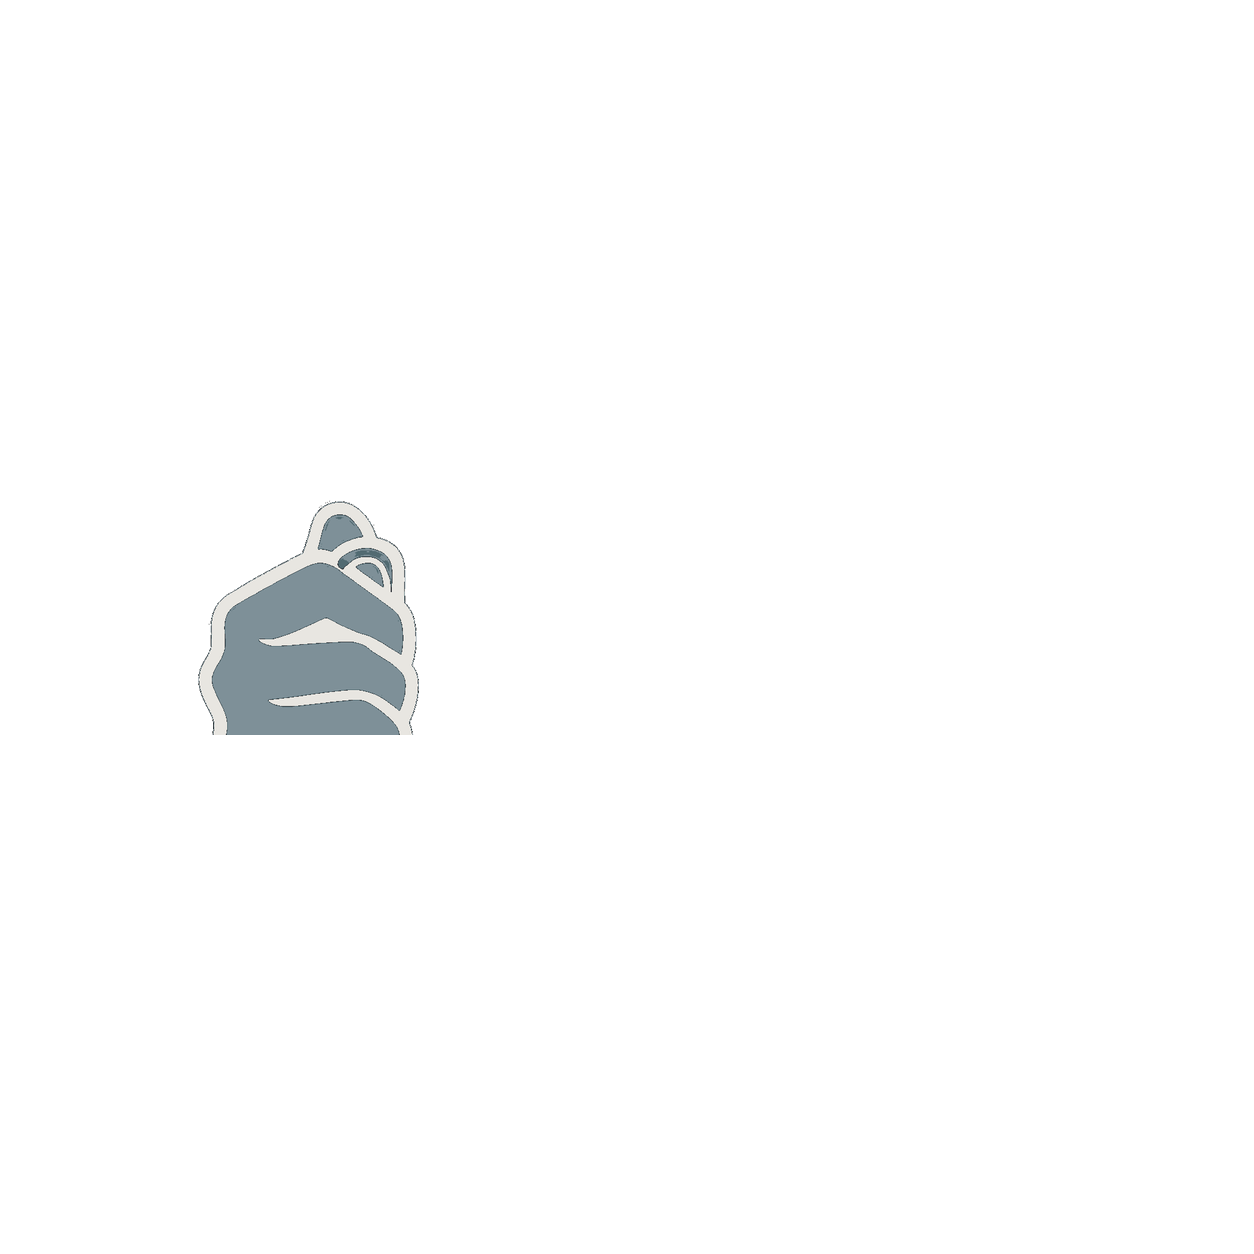
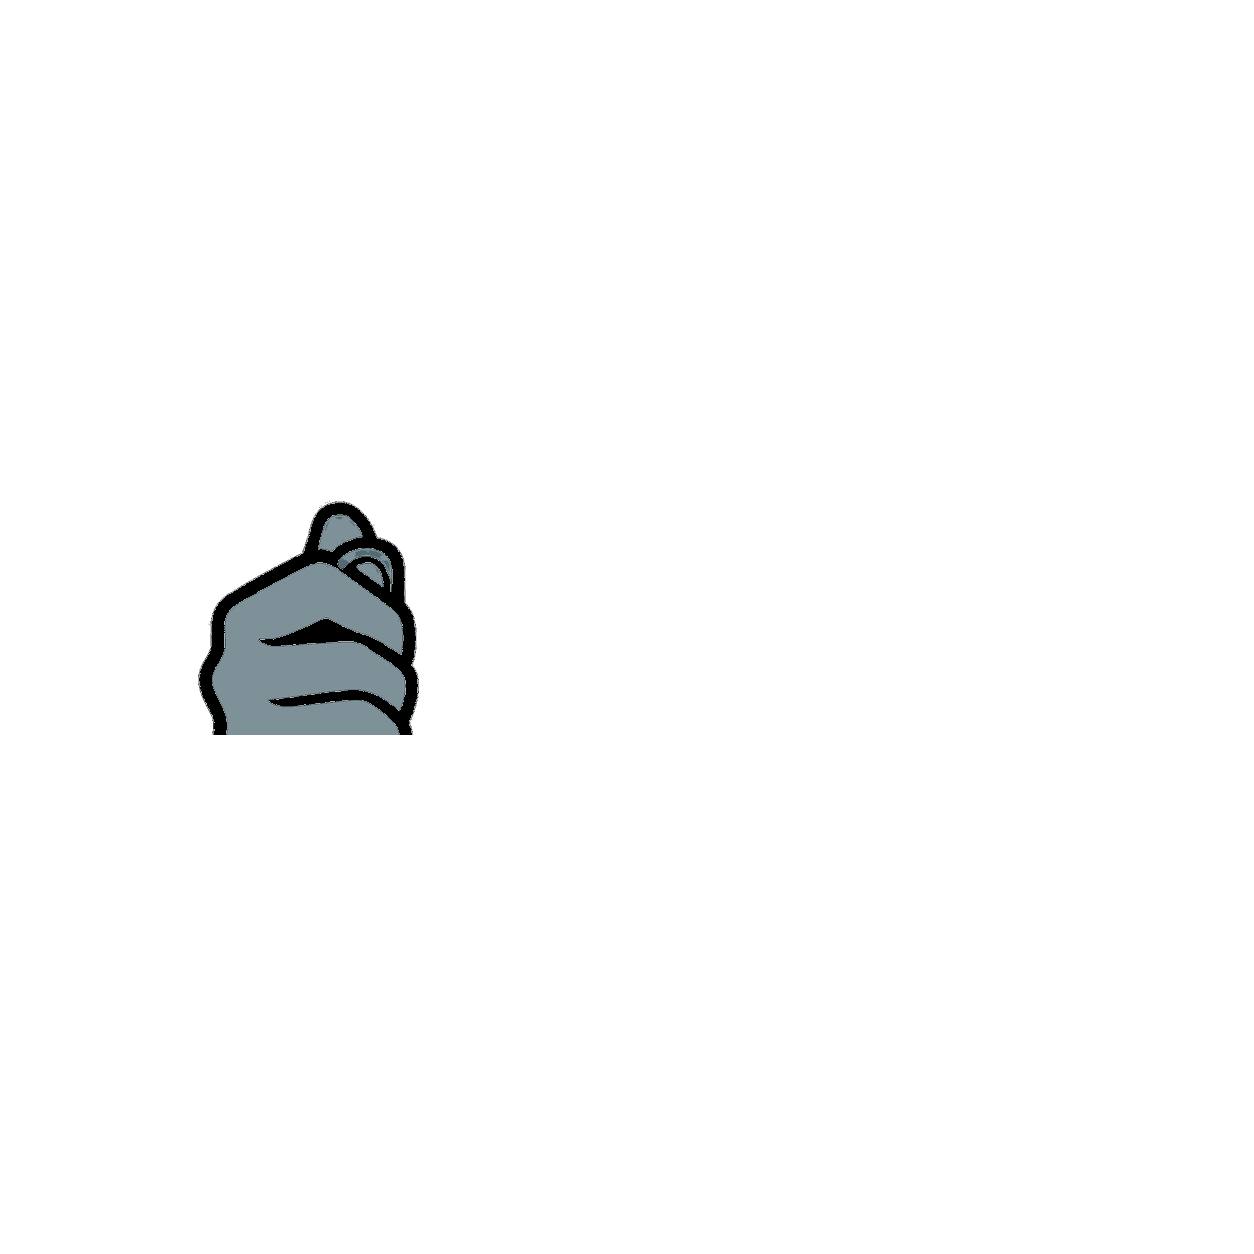
Fix puppet arm outline and face overlay scale

Changed region(s): [[0.1555, 0.4043, 0.3421, 0.5909]]

diff --git a/channels/modern-archivist/assets/svg_layers/preview.html b/channels/modern-archivist/assets/svg_layers/preview.html
@@ -125,12 +125,12 @@
     <div class="layer" style="z-index:40; transform: translate(-7%, 20%) scale(0.92); transform-origin:center center;">
       <img src="hand_mug.png" />
     </div>
-    <!-- z=45: glasses — canvas-registered RGBA PNG from source art, transparent bg -->
-    <div class="layer" style="z-index:45">
+    <!-- z=45: glasses — canvas-registered RGBA PNG from source art, transparent bg; scaled down for face fit -->
+    <div class="layer" style="z-index:45; transform: scale(0.96); transform-origin:center center;">
       <img src="glasses_canvas_reg.png" id="glasses-layer" />
     </div>
-    <!-- z=50: mouth phoneme -->
-    <div class="layer" style="z-index:50">
+    <!-- z=50: mouth phoneme; scaled down slightly to match the reference face proportions -->
+    <div class="layer" style="z-index:50; transform: scale(0.94); transform-origin:center center;">
       <img src="mouth_neutral.svg" id="mouth-layer" />
     </div>
   </div>

diff --git a/tests/contracts/test_modern_archivist_puppet_assets.py b/tests/contracts/test_modern_archivist_puppet_assets.py
@@ -253,5 +253,28 @@ def test_svg_layer_preview_includes_explicit_mug_hand_and_shadow_layers() -> Non
     assert 'scale(0.82)' in preview, "preview mug should be scaled down to line up with the hand grip"
     assert 'src="hand_mug.png"' in preview, "preview must render hand/grip separately from the sleeve and mug"
     assert 'src="shadow.png"' in preview, "preview must render the Phase 3 contact shadow layer"
+    assert 'scale(0.96)' in preview, "preview glasses should be scaled down slightly for face fit"
+    assert 'scale(0.94)' in preview, "preview mouth should be scaled down slightly for face fit"
     assert "mug_code" in preview, "preview layer strip must expose the mug layer for visual QA"
     assert "hand_mug" in preview, "preview layer strip must expose the hand/grip layer for visual QA"
+
+
+def test_phase3_arm_and_hand_no_longer_have_white_outline() -> None:
+    manifest = json.loads(MANIFEST_V2_PATH.read_text())
+    layers = {layer["id"]: layer for layer in manifest["layers"]}
+    for layer_id in ["arm_right_idle", "hand_mug"]:
+        path = _resolve_layer_path(layers[layer_id]["src"])
+        img = Image.open(path).convert("RGBA")
+        near_white = 0
+        foreground = 0
+        pixels = img.load()
+        for y in range(img.height):
+            for x in range(img.width):
+                r, g, b, a = pixels[x, y]  # type: ignore[index,misc]
+                if a <= 10:
+                    continue
+                foreground += 1
+                if r >= 188 and g >= 188 and b >= 178 and max(r, g, b) - min(r, g, b) <= 55:
+                    near_white += 1
+        assert foreground > 0
+        assert near_white == 0, f"{layer_id} still has near-white outline pixels"

diff --git a/channels/modern-archivist/assets/character/asset-inventory.md b/channels/modern-archivist/assets/character/asset-inventory.md
@@ -32,8 +32,8 @@ Generated/maintained as the Phase 2 promotion ledger for the full-body layered p
 | `mouth_frown` | `mouths` | `production` | `anchored_overlay` | 130x115; bbox=[20,20,111,96]; transparent=0.75; visible_colors=1669 | remotion-composer/public/modern-archivist/mouth-frown.png current cropped anchored overlay | cropped anchored overlay; alignment depends on manifest anchor/pivot | Keep as production until a better semantic replacement passes promotion gate. |
 | `glasses_frame` | `glasses` | `production` | `canvas_registered` | 1254x1254; bbox=[263,455,1018,679]; transparent=0.98; visible_colors=21 | channels/modern-archivist/assets/source/production_trace_trial/clean_semantic/png/modern_archivist_glasses_frame.png resized/promoted | passes current contract checks | Keep as production until a better semantic replacement passes promotion gate. |
 | `lens_highlight` | `glasses` | `production` | `canvas_registered` | 1254x1254; bbox=[411,478,863,505]; transparent=1.00; visible_colors=247 | channels/modern-archivist/assets/source/production_trace_trial/clean_semantic/png/modern_archivist_glasses_lens_highlight.png resized/promoted | passes current contract checks | Keep as production until a better semantic replacement passes promotion gate. |
-| `arm_right_idle` | `arms` | `production` | `canvas_registered` | 1254x1254; bbox=[83,735,447,1221]; transparent=0.92; visible_colors=4731 | remotion-composer/public/modern-archivist/layers/modern_archivist_arm_right_idle.png split from prior arm/hand layer at y=735 | lower sleeve/forearm only; first semantic split candidate, not final neutral arm art | Keep as production split layer until a better neutral/action arm set passes promotion gate. |
-| `hand_mug` | `arms` | `production` | `canvas_registered` | 1254x1254; bbox=[198,500,419,735]; transparent=0.98; visible_colors=4974 | remotion-composer/public/modern-archivist/layers/modern_archivist_hand_mug.png split from prior arm/hand layer at y=735 | first semantic hand/grip layer; still derived from raised grip pose | Replace with cleaner hand-only mug grip after hand/mug alignment visual QC. |
+| `arm_right_idle` | `arms` | `production` | `canvas_registered` | 1254x1254; bbox=[83,735,447,1221]; transparent=0.92; visible_colors=4328; near_white_outline_pixels=0 | remotion-composer/public/modern-archivist/layers/modern_archivist_arm_right_idle.png split from prior arm/hand layer at y=735, then white line art remapped to black; vtracer candidate copied to `channels/modern-archivist/assets/svg_layers/arm_right_idle_vtracer.svg` | lower sleeve/forearm only; first semantic split candidate, not final neutral arm art | Keep as production split layer until a better neutral/action arm set passes promotion gate. |
+| `hand_mug` | `arms` | `production` | `canvas_registered` | 1254x1254; bbox=[198,500,419,735]; transparent=0.98; visible_colors=2530; near_white_outline_pixels=0 | remotion-composer/public/modern-archivist/layers/modern_archivist_hand_mug.png split from prior arm/hand layer at y=735, then white line art remapped to black; vtracer candidate copied to `channels/modern-archivist/assets/svg_layers/hand_mug_vtracer.svg` | first semantic hand/grip layer; still derived from raised grip pose | Replace with cleaner hand-only mug grip after hand/mug alignment visual QC. |
 | `mug` | `props` | `production` | `canvas_registered` | 1254x1254; bbox=[281,359,896,898]; transparent=0.84; visible_colors=6896 | remotion-composer/public/modern-archivist/archivist-mug.png current render-facing mug asset | z-order lowered below `hand_mug` so grip can overlay mug in manifest-driven rendering | Keep as production until a better semantic replacement passes promotion gate. |
 | `steam_01` | `props` | `placeholder` | `canvas_registered` | missing/unpromoted render asset | No promoted production source yet; placeholder declared in manifest. | placeholder layer; skipped by asset image checks | Generate optional flat steam layer; keep disabled/placeholder until mug action reads correctly. |
 | `shadow` | `props` | `production` | `canvas_registered` | 1254x1254; bbox=[255,1150,1041,1233]; transparent=0.97; visible_colors=1 | remotion-composer/public/modern-archivist/layers/modern_archivist_shadow.png hard-alpha ellipse generated for Phase 3 minimum batch | simple hard-edged contact shadow; no soft feathering | Keep as production unless visual QC rejects contact-shadow placement. |
